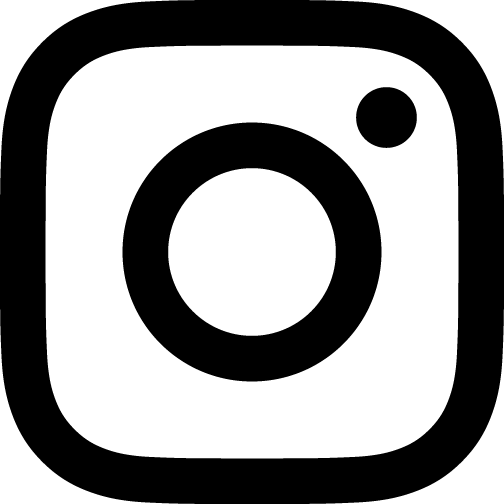
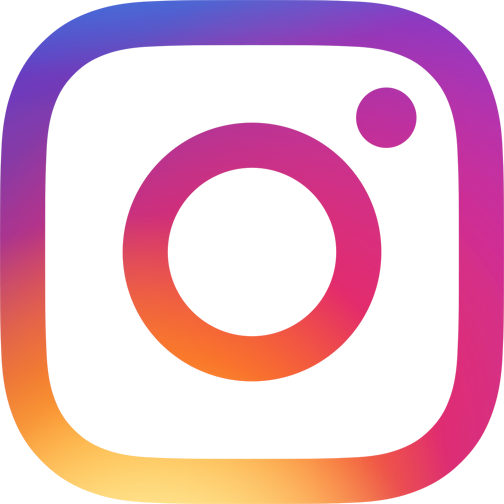
Redesign Instagram posts

diff --git a/src/components/Shared/InstagramPost.js b/src/components/Shared/InstagramPost.js
@@ -1,10 +1,39 @@
 import React, { PureComponent } from 'react'
 import { View, Image } from 'react-native'
 import styled from 'styled-components'
+import * as theme from './themes'
 import { Video } from 'expo'
 
-const StyledView = styled.View`
-  border-radius: 10px;
+const InstagramLogo = require('../../../assets/social-media/instagram.png')
+
+const AuthorInfo = styled.View`
+  height: 50px;
+  width: 100%;
+  padding: 0 20px;
+  display: flex;
+  flex-direction: row;
+  justify-content: flex-end;
+`
+
+const ProviderLogo = styled.Image`
+  height: 29px;
+  width: 29px;
+  margin: auto 0 auto auto;
+`
+
+const Content = styled.View`
+  display: flex;
+  width: 100%;
+  min-height: 50px;
+  padding: 10px 20px;
+`
+
+const ContentText = styled.Text`
+  font-size: 16px;
+  line-height: 22px;
+  font-weight: bold;
+  padding: 10px 0;
+  color: ${theme.primaryTextColor};
 `
 
 const StyledImage = styled(Image)`
@@ -12,15 +41,28 @@ const StyledImage = styled(Image)`
   height: 400px;
   display: flex;
   border-radius: 10px;
+  margin: 0 auto 10px auto;
 `
 
 const StyledVideo = styled(Video)`
   width: 100%;
   height: 400px;
   border-radius: 10px;
+  margin: 0 auto 10px auto;
 `
 
 class InstagramPost extends PureComponent {
+  constructor(props) {
+    super(props)
+    this.state = {
+      isExpanded: false
+    }
+  }
+
+  triggerExpand = () => {
+    this.setState({ isExpanded: !this.state.isExpanded })
+  }
+
   renderVideo = () => {
     const { url } = this.props.data.videos.standard_resolution
     return (
@@ -40,12 +82,30 @@ class InstagramPost extends PureComponent {
   }
 
   render() {
-    const { type } = this.props.data
+    const { data, data: { type } } = this.props
+    const { isExpanded } = this.state
+
+    let numOfLines = isExpanded ? 0 : 2
+
     return (
-      <StyledView>
-        { type === 'photo' && this.renderPhoto() }
-        { type === 'video' && this.renderVideo() }
-      </StyledView>
+      <View>
+        <AuthorInfo>
+          <ProviderLogo source={InstagramLogo} />
+        </AuthorInfo>
+        <Content>
+          { type === 'photo' && this.renderPhoto() }
+          { type === 'video' && this.renderVideo() }
+          {
+            data.caption &&
+            <ContentText
+              onPress={this.triggerExpand}
+              suppressHighlighting={true}
+              numberOfLines={numOfLines}>
+              {data.caption.text}
+            </ContentText>
+          }
+        </Content>
+      </View>
     )
   }
 }

diff --git a/src/components/Shared/TwitterPost.js b/src/components/Shared/TwitterPost.js
@@ -14,7 +14,7 @@ const AuthorInfo = styled.View`
   justify-content: space-between;
 `
 
-const TweetText = styled.View`
+const Content = styled.View`
   display: flex;
   width: 100%;
   min-height: 50px;
@@ -69,7 +69,7 @@ const External = styled.Text`
   color: #1B95E0;
 `
 
-const Content = styled.Text`
+const ContentText = styled.Text`
   font-size: 16px;
   line-height: 22px;
   font-weight: bold;
@@ -84,7 +84,7 @@ const TweetAvatar = styled.Image`
   border-radius: 18px;
 `
 
-const TwitterLogo = styled.Image`
+const ProviderLogo = styled.Image`
   height: 36px;
   width: 36px;
   margin: auto 0 auto auto;
@@ -206,14 +206,14 @@ const TwitterPost = props => {
             <Username>@{screen_name}</Username>
           </NamesContainer>
         </Linked>
-        <TwitterLogo source={TwitterLogoBlue} />
+        <ProviderLogo source={TwitterLogoBlue} />
       </AuthorInfo>
-      <TweetText>
+      <Content>
         {
           media &&
           <Photo source={{uri: media[0].media_url_https}} />
         }
-        <Content>
+        <ContentText>
           {
             hashtags.length > 0
             || user_mentions.length > 0
@@ -221,8 +221,8 @@ const TwitterPost = props => {
             ? transform(hashtags, user_mentions, media)
             : text
           }
-        </Content>
-      </TweetText>
+        </ContentText>
+      </Content>
       <Actions>
         <Permalink>
           View on Twitter

diff --git a/ThemedStacks.js b/ThemedStacks.js
@@ -31,8 +31,6 @@ import SettingsScreen from './src/components/Settings/Settings'
 import GreetingAvatar from './src/components/Shared/GreetingAvatar'
 import DarkModeSwitch from './src/components/Shared/DarkModeSwitch'
 const MergeIcon = require('./assets/branding/logo-short-colors.png')
-const SettingsIcon = require('./assets/settings.png')
-
 
 const HeaderButton = styled.Image`
   height: 25px;

diff --git a/src/components/Explore/Searchbox.js b/src/components/Explore/Searchbox.js
@@ -67,6 +67,7 @@ class Searchbox extends PureComponent {
           <IconClear
             name="ios-close-circle-outline"
             size={25}
+            suppressHighlighting={true}
             onPress={() => this.askQuery('')}
             color={`${palette.lightText}`} />
         }
